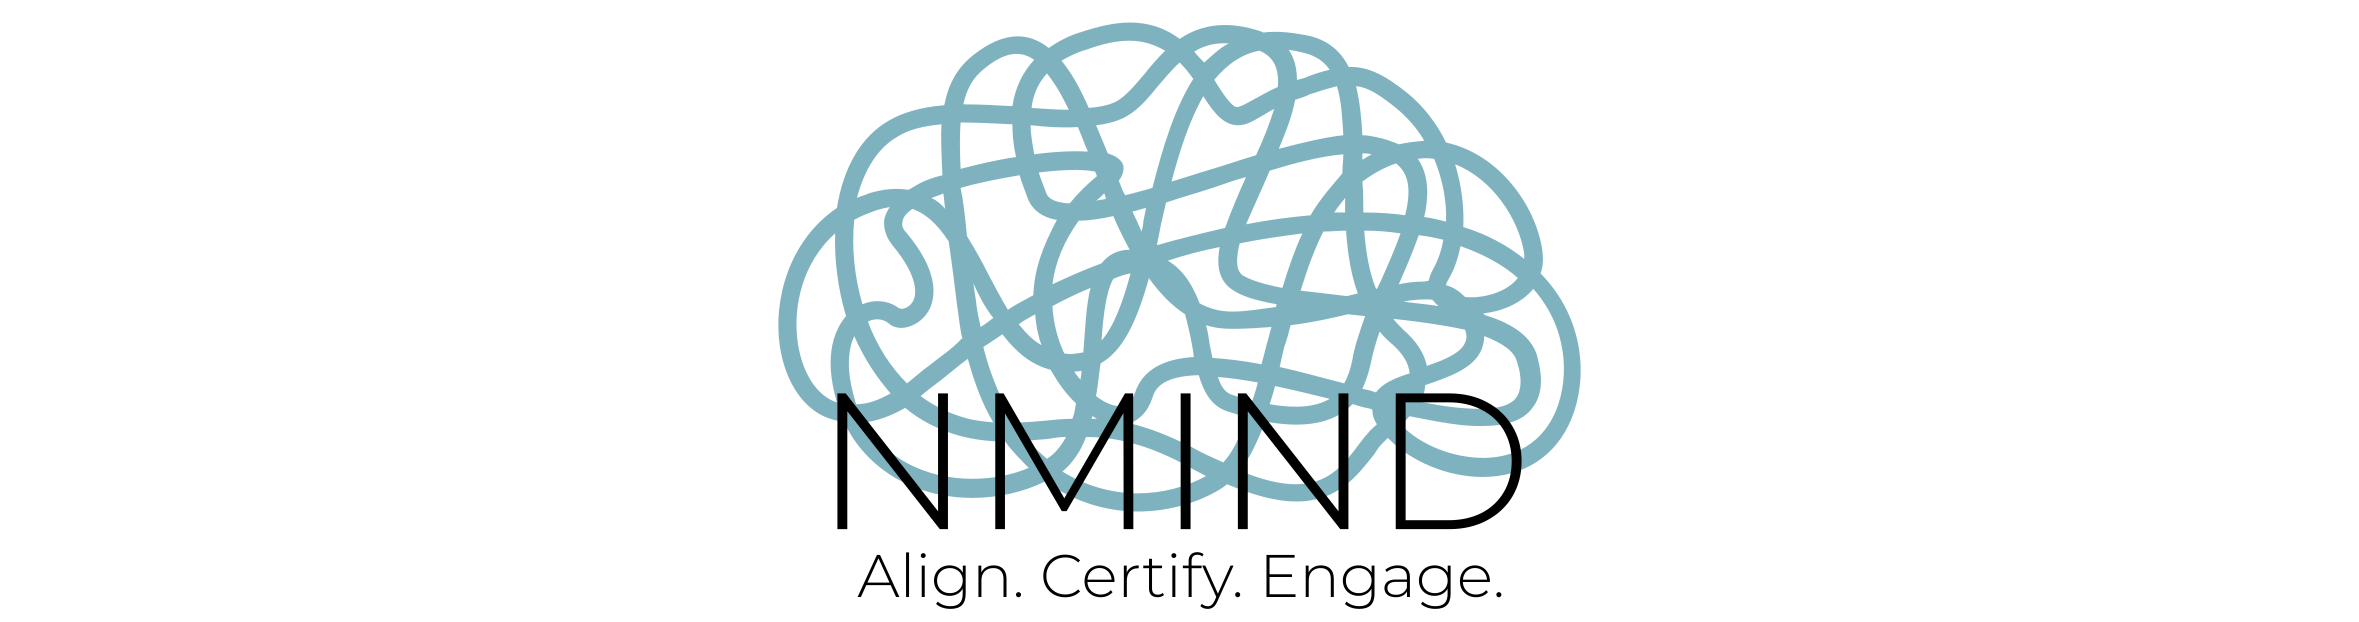
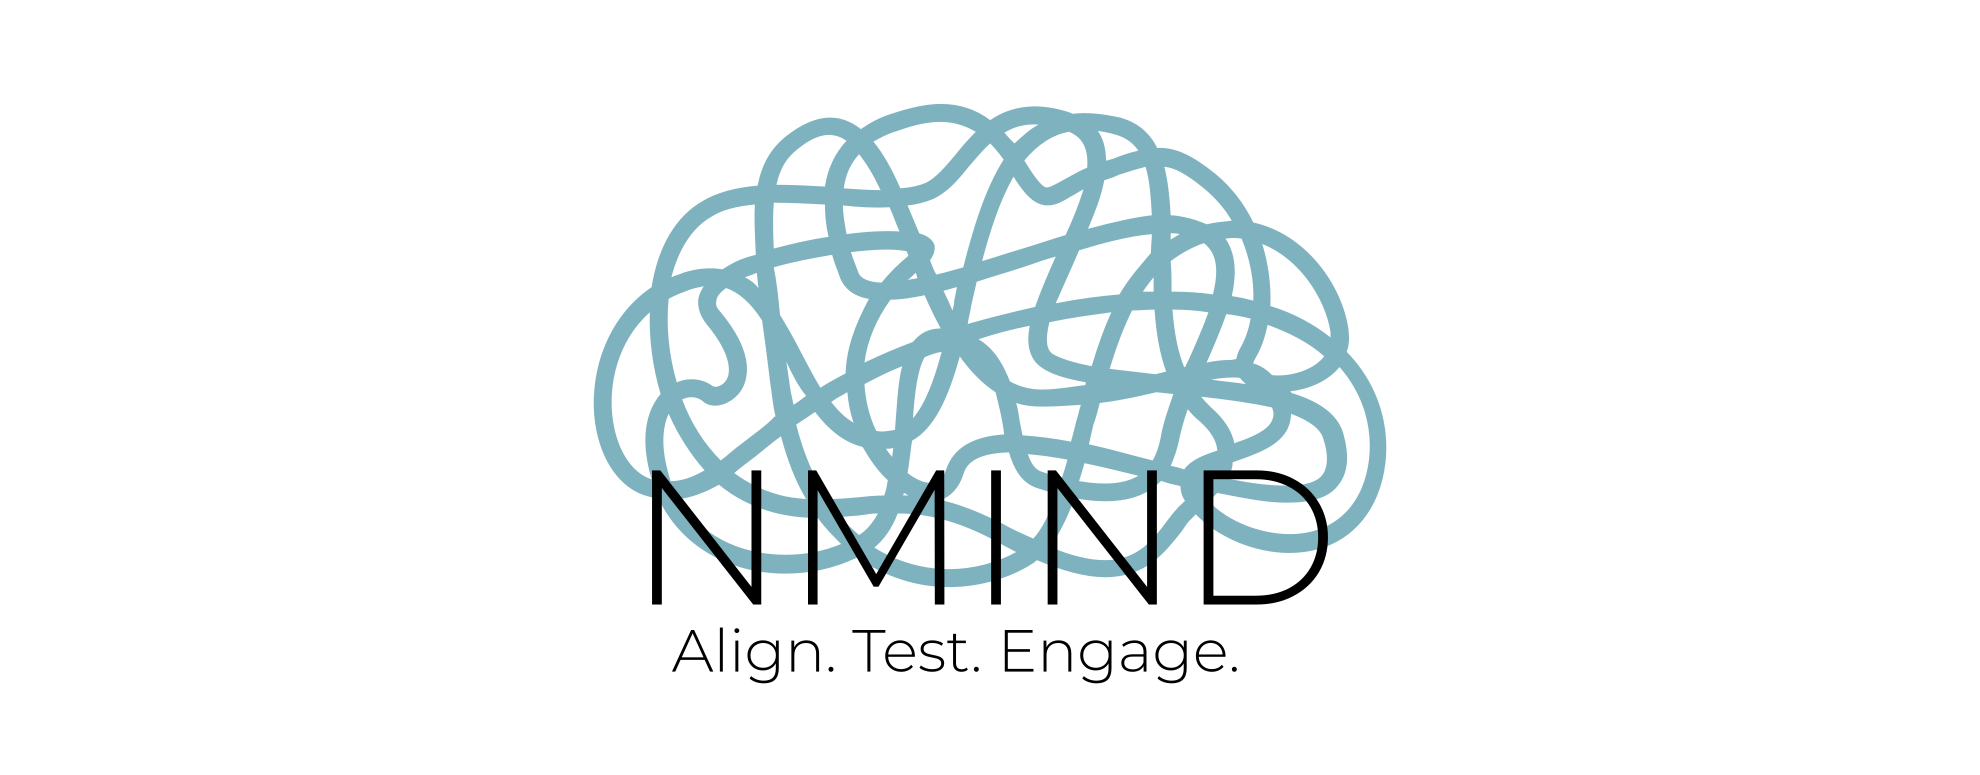
replaced all (known) occurances of certif* with test*

Changed region(s): [[0.2773, 0.0305, 0.7086, 0.9775]]

diff --git a/index.md b/index.md
@@ -7,7 +7,7 @@ header:
   image: assets/images/brain_wires.png
 
 summary:
-  - image_path: /assets/images/fig1.svg
+  - image_path: /assets/images/fig1.png
     title: "Mission Statement"
     excerpt: "NMIND is a collaborative dedicated to responding to the growing frustration about redundancies in effort and reproducibility in neuroimaging. NMIND seeks to build a community which advances the development of standards in software development, nomenclature, and testing, to ultimately harmonize advancements in neuroscience."
     url: "https://docs.google.com/document/d/19RqNJoLbA_NqsP3Wb5wKsQ697FJ7Z5jH/edit?usp=sharing&ouid=103813228521985061352&rtpof=true&sd=true"
@@ -18,10 +18,10 @@ pillars:
     excerpt: "Grassroots standards for data analysis. Explore where the community is headed and share your perspective!"
     url: "/alignment"
     btn_label: "&#187; Give Input"
-  - image_path: /assets/images/certify.png
+  - image_path: /assets/images/test.png
     excerpt: "Accessible and automated tool evaluation at your finger tips. Learn about the standards and how to register your tool!"
-    url: "/certification"
-    btn_label: "&#187; Get Certified"
+    url: "/testing"
+    btn_label: "&#187; Test a Tool"
   - image_path: /assets/images/engage.png
     excerpt: "NMIND relies upon the participation and contribution of community members. Find out how you can join in!"
     url: "/engagement"

diff --git a/engagement.md b/engagement.md
@@ -15,7 +15,7 @@ Check out one of our repositories on [GitHub](https://github.com/nmind). Feedbac
 
 Join us for monthly hack-a-days on Gather.town! Add [this](/assets/calendar/NMIND_monthly_meeting.ics) event to your calendar, and join us on the first Thursday of the month."
   
-  - excerpt: "### Certification
+  - excerpt: "### Testing
 
 Test out the NMIND standards on your own tool! You can go through [the checklists](https://github.com/nmind/coding-standards-certification) and see how you're doing!"
  
